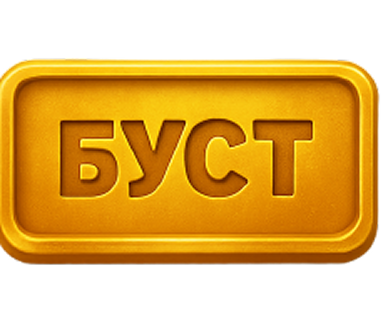
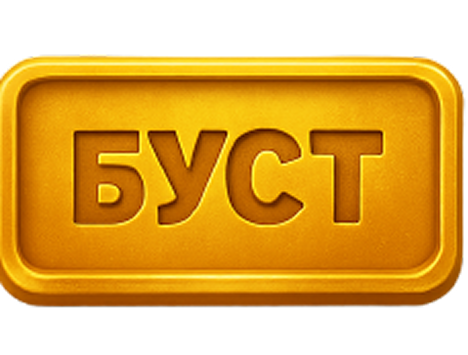
Добавлена кнопка 'Правила' на главную страницу и подключение через MMMGo.ts

diff --git a/src/pages/MMMGo.css b/src/pages/MMMGo.css
@@ -253,7 +253,7 @@ button {
 
 .recharge-gold-button {
   position: absolute;
-  top: -62px;
+  top: -60px;
   right: 15px;
   width: 110px;
   height: auto;
@@ -270,7 +270,7 @@ button {
 }
 .boost-tap-button {
   position: absolute;
-  top: -58px;
+  top: -60px;
   left: 15px;  /* Кнопка размещается слева */
   width: 110px;
   height: auto;
